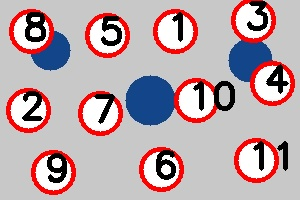
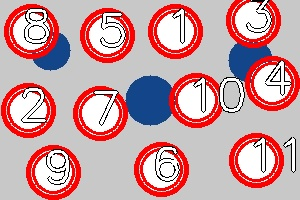
Enhance numeric labels on walnuts with improved visibility
- Increase label size and border thickness for better visibility
- Add dual-layer red borders with white background for contrast
- Implement bold black numbers with white outline for enhanced readability
- Optimize label positioning and font size (1.5x larger)
- Improve visual hierarchy with multi-layered circle design

🤖 Generated with [Claude Code](https://claude.ai/code)

diff --git a/walnut_detector.py b/walnut_detector.py
@@ -90,16 +90,27 @@ def walnut_detector():
             # 步骤4: 可视化结果
             print("🔍 步骤4: 生成可视化结果...")
             
-            # 创建标记图片 - 在核桃身上直接添加数字标记
+            # 创建标记图片 - 在核桃身上添加清晰的数字标注
             marked_image = image.copy()
             for i, center in enumerate(cluster_centers):
-                # 在核桃中心画红色圆圈背景（更醒目）
-                cv2.circle(marked_image, (int(center[0]), int(center[1])), 20, (0, 0, 255), 3)
-                # 在圆圈内填充白色背景
-                cv2.circle(marked_image, (int(center[0]), int(center[1])), 18, (255, 255, 255), -1)
-                # 添加黑色数字编号
-                cv2.putText(marked_image, str(i+1), (int(center[0])-8, int(center[1])+8), 
-                           cv2.FONT_HERSHEY_SIMPLEX, 1.2, (0, 0, 0), 3)
+                center_x, center_y = int(center[0]), int(center[1])
+                
+                # 画更大的红色圆圈边框（更醒目）
+                cv2.circle(marked_image, (center_x, center_y), 25, (0, 0, 255), 4)
+                
+                # 画白色填充圆圈作为背景
+                cv2.circle(marked_image, (center_x, center_y), 22, (255, 255, 255), -1)
+                
+                # 画内圈红色边框
+                cv2.circle(marked_image, (center_x, center_y), 20, (0, 0, 255), 2)
+                
+                # 添加加粗的黑色数字编号
+                cv2.putText(marked_image, str(i+1), (center_x-10, center_y+10), 
+                           cv2.FONT_HERSHEY_SIMPLEX, 1.5, (0, 0, 0), 4)
+                
+                # 添加白色数字描边（增强可读性）
+                cv2.putText(marked_image, str(i+1), (center_x-10, center_y+10), 
+                           cv2.FONT_HERSHEY_SIMPLEX, 1.5, (255, 255, 255), 2)
             
             # 保存结果图片
             cv2.imwrite('walnut_detection_result.jpg', marked_image)
